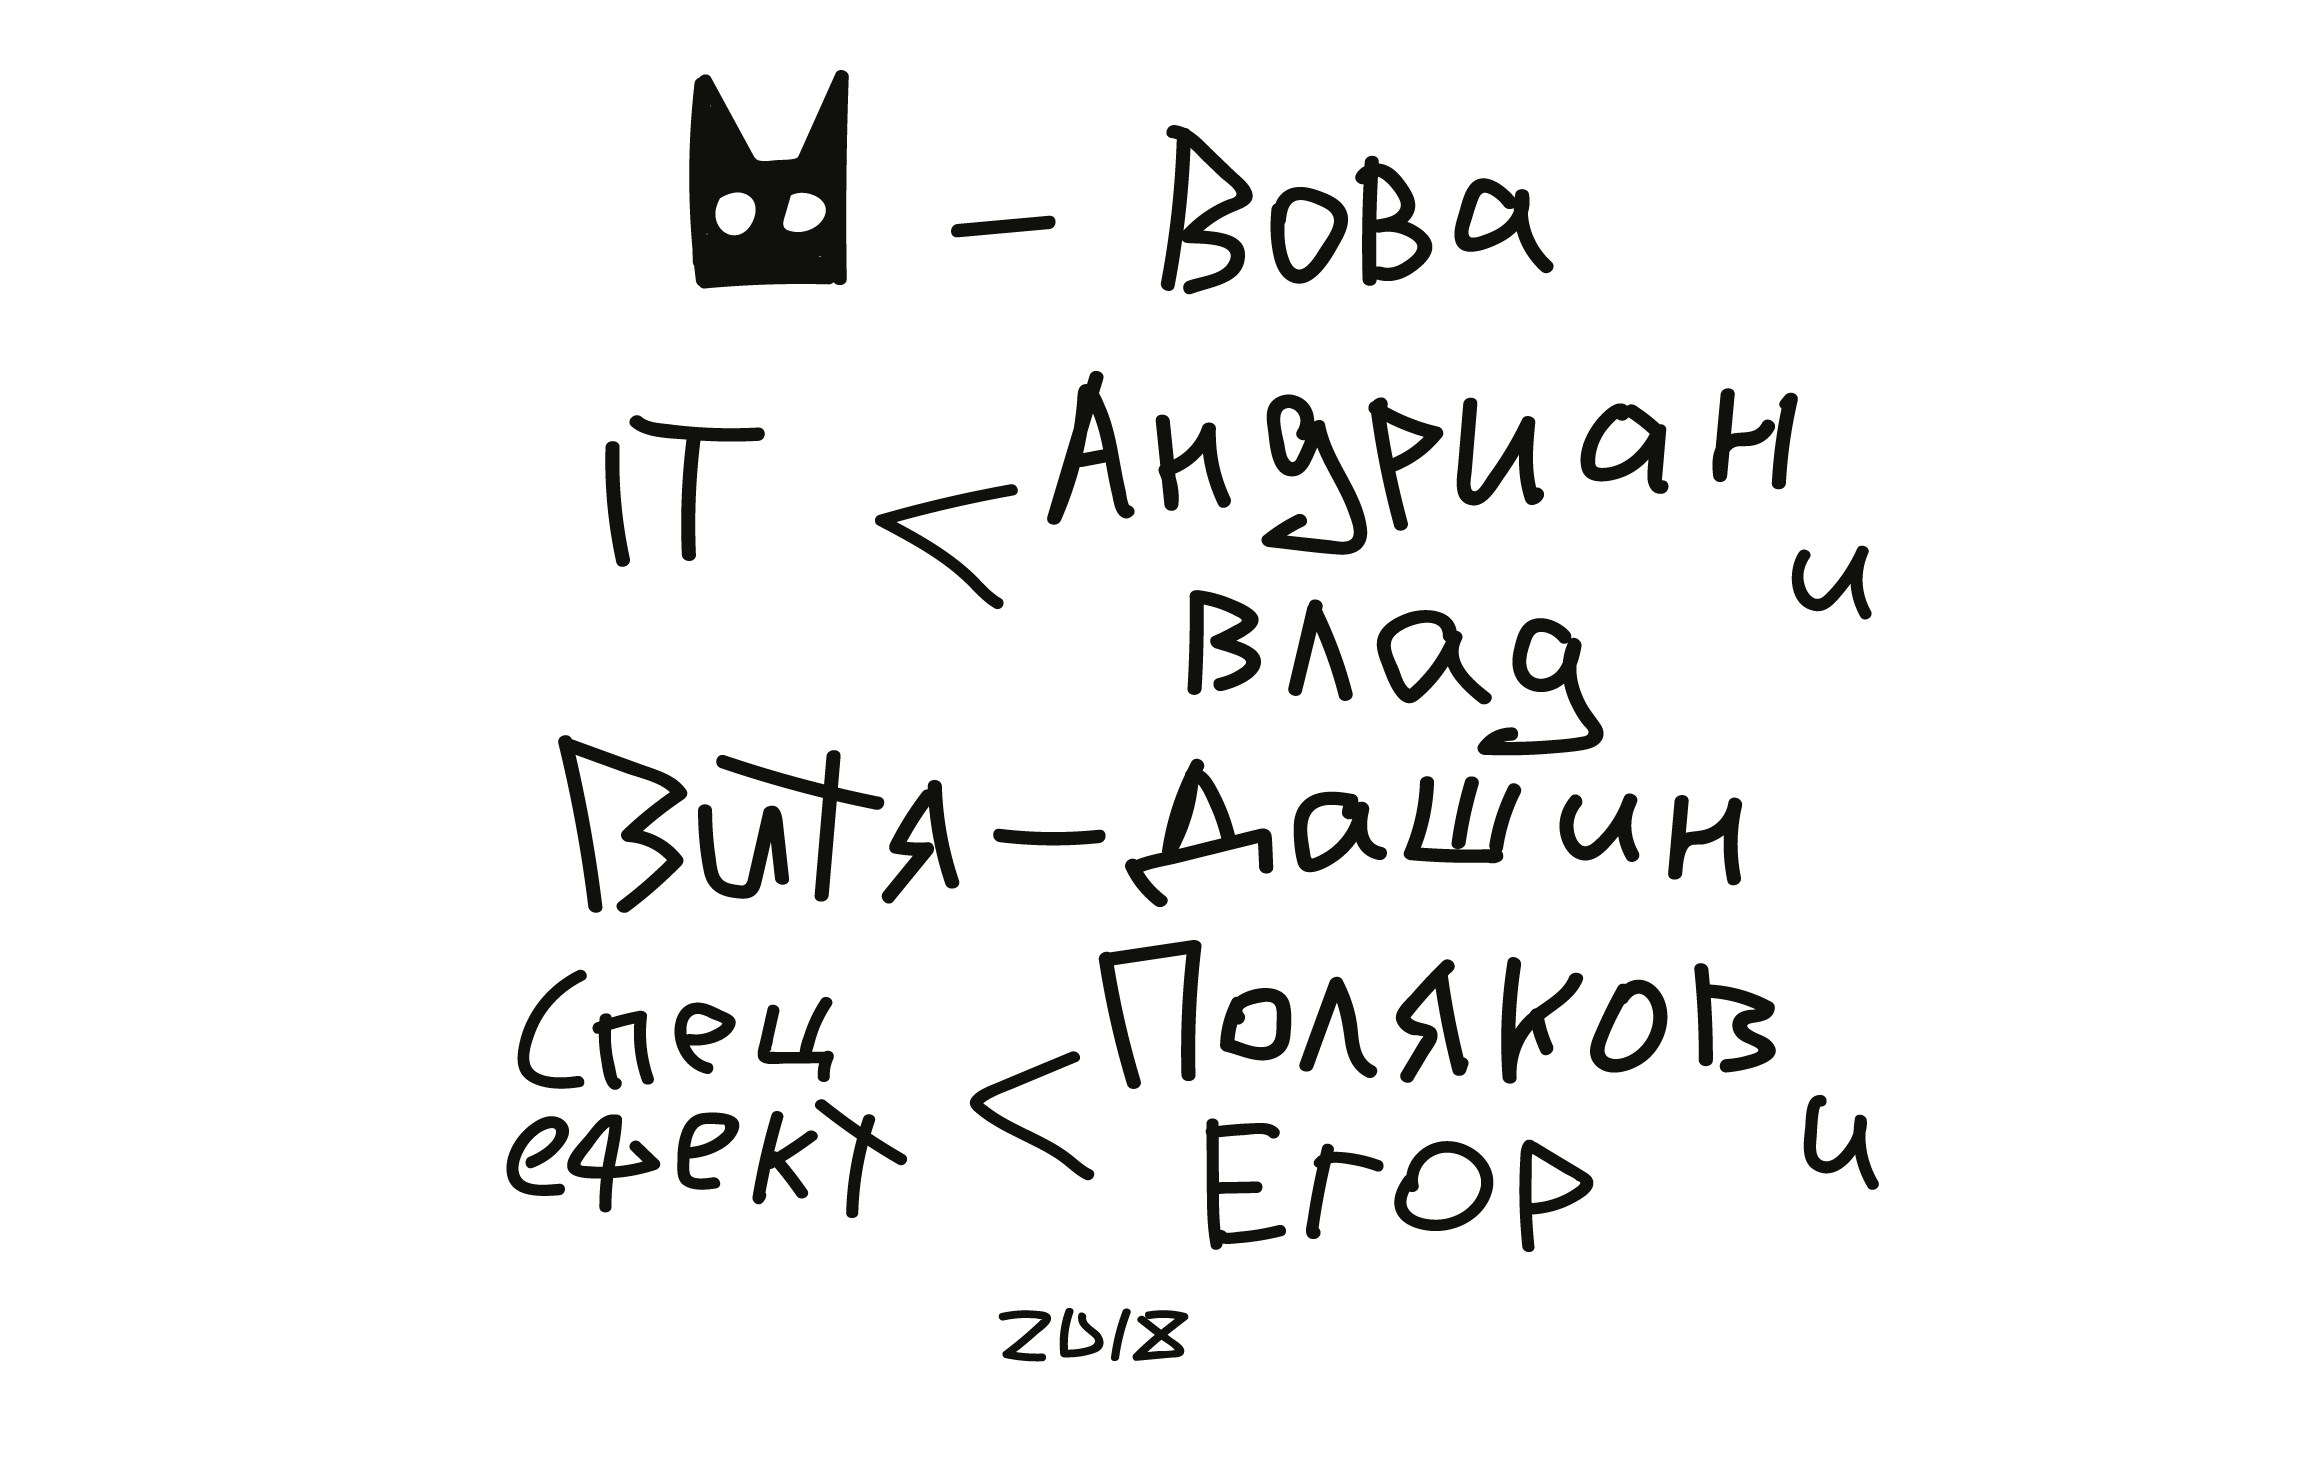
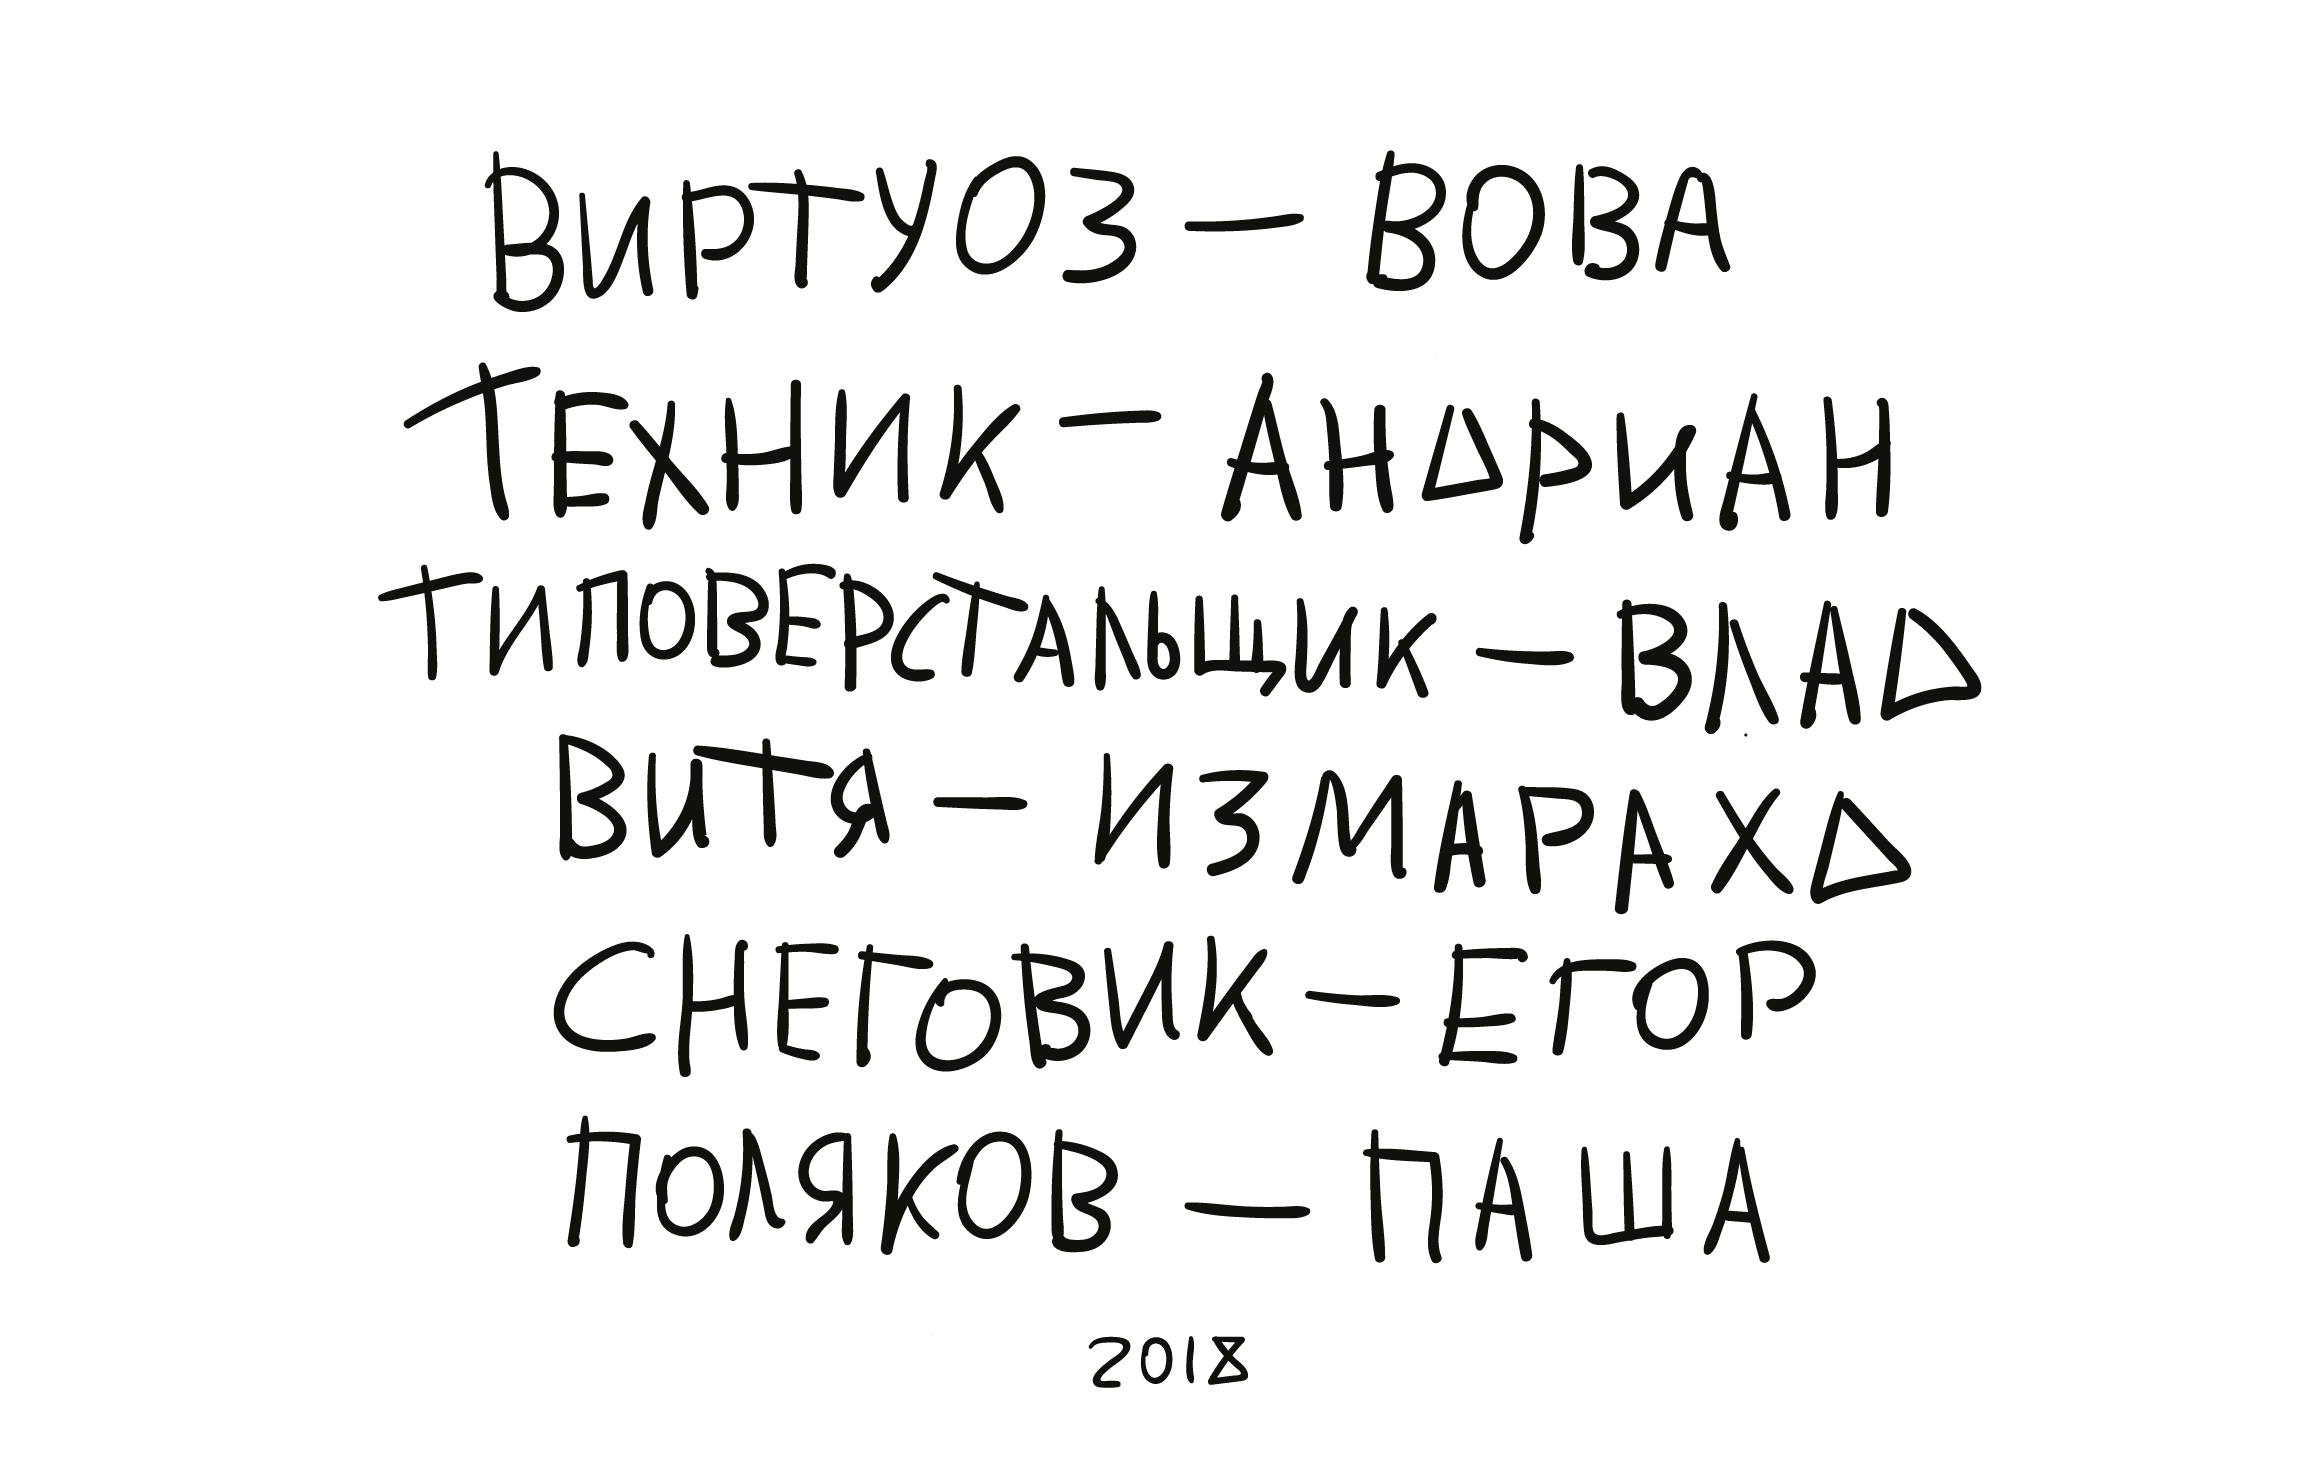
2
Новые титры, Новый контакт

Changed region(s): [[0.1559, 0.2481, 0.8731, 0.8685], [0.1871, 0.031, 0.7484, 0.2171], [0.4366, 0.8685, 0.5613, 0.9305]]

diff --git a/css/contacts.css b/css/contacts.css
@@ -29,7 +29,7 @@
 #con1{
 	position: absolute;
 	 margin-top:10vh;
-	 background: url(image/Blackat2.png) no-repeat center/contain;
+	 background: url(image/шалопай.png) no-repeat center/contain;
 }
 
 #con2{
